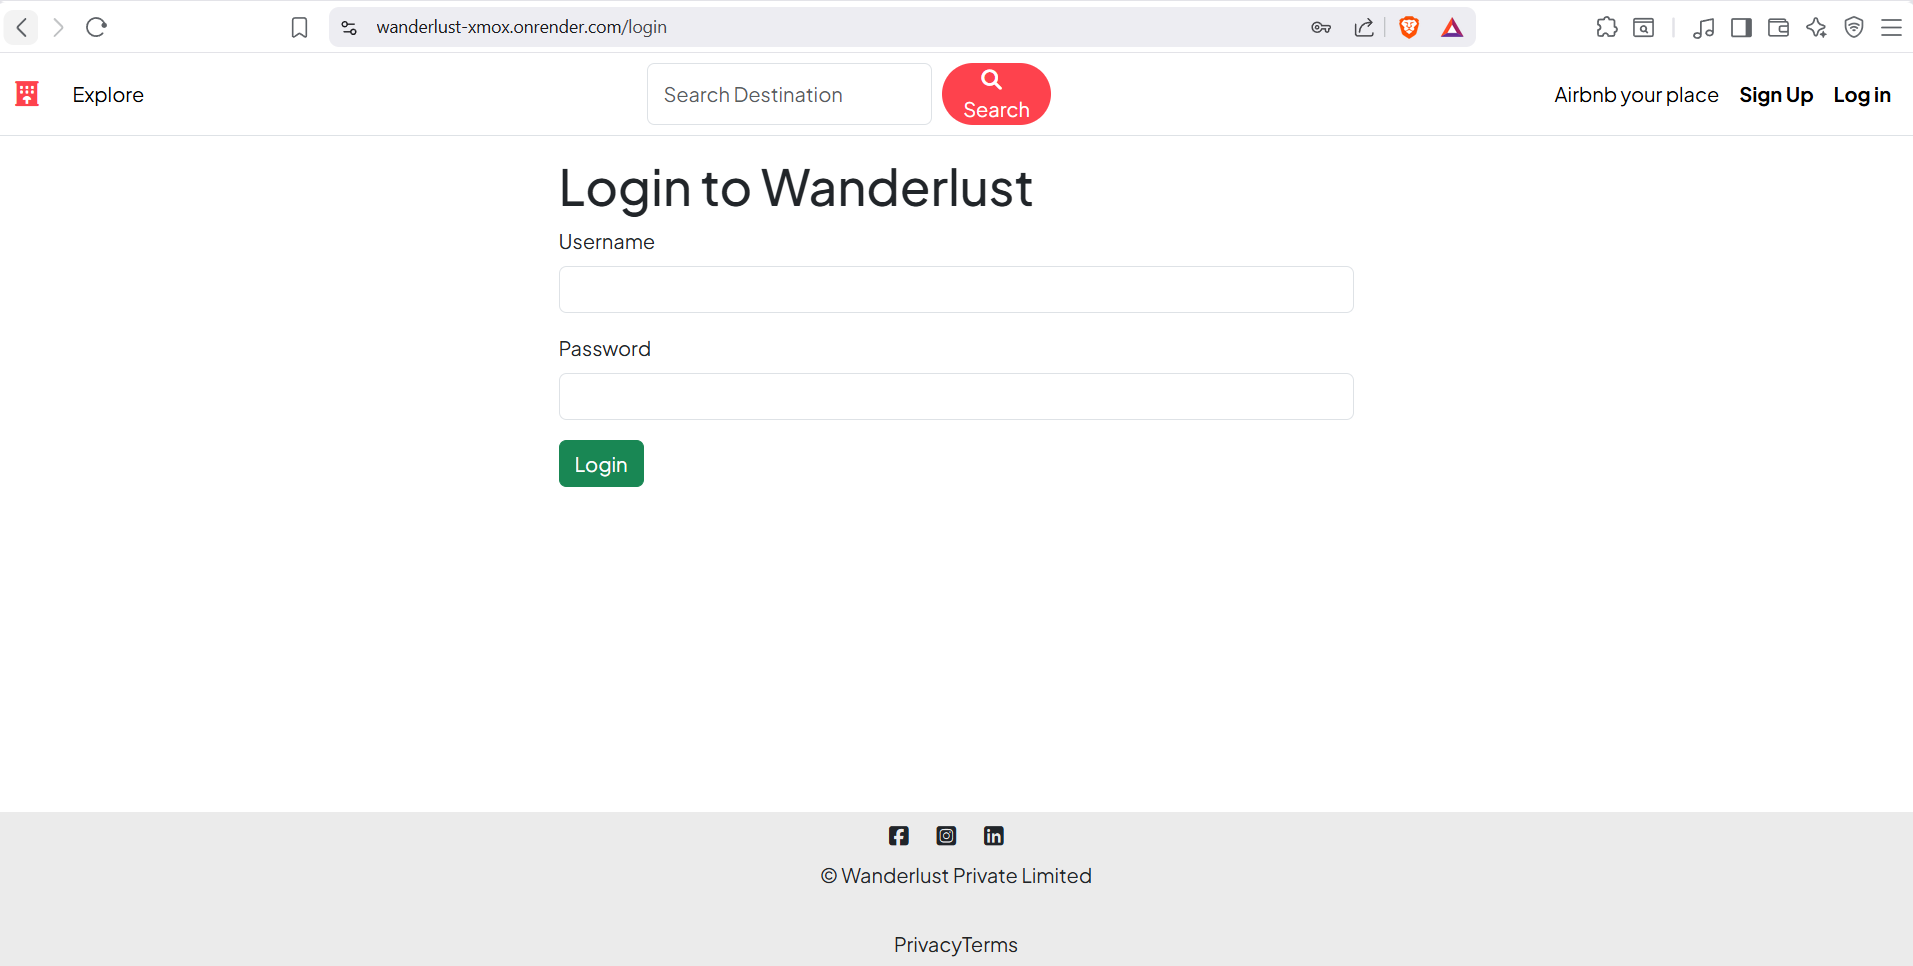
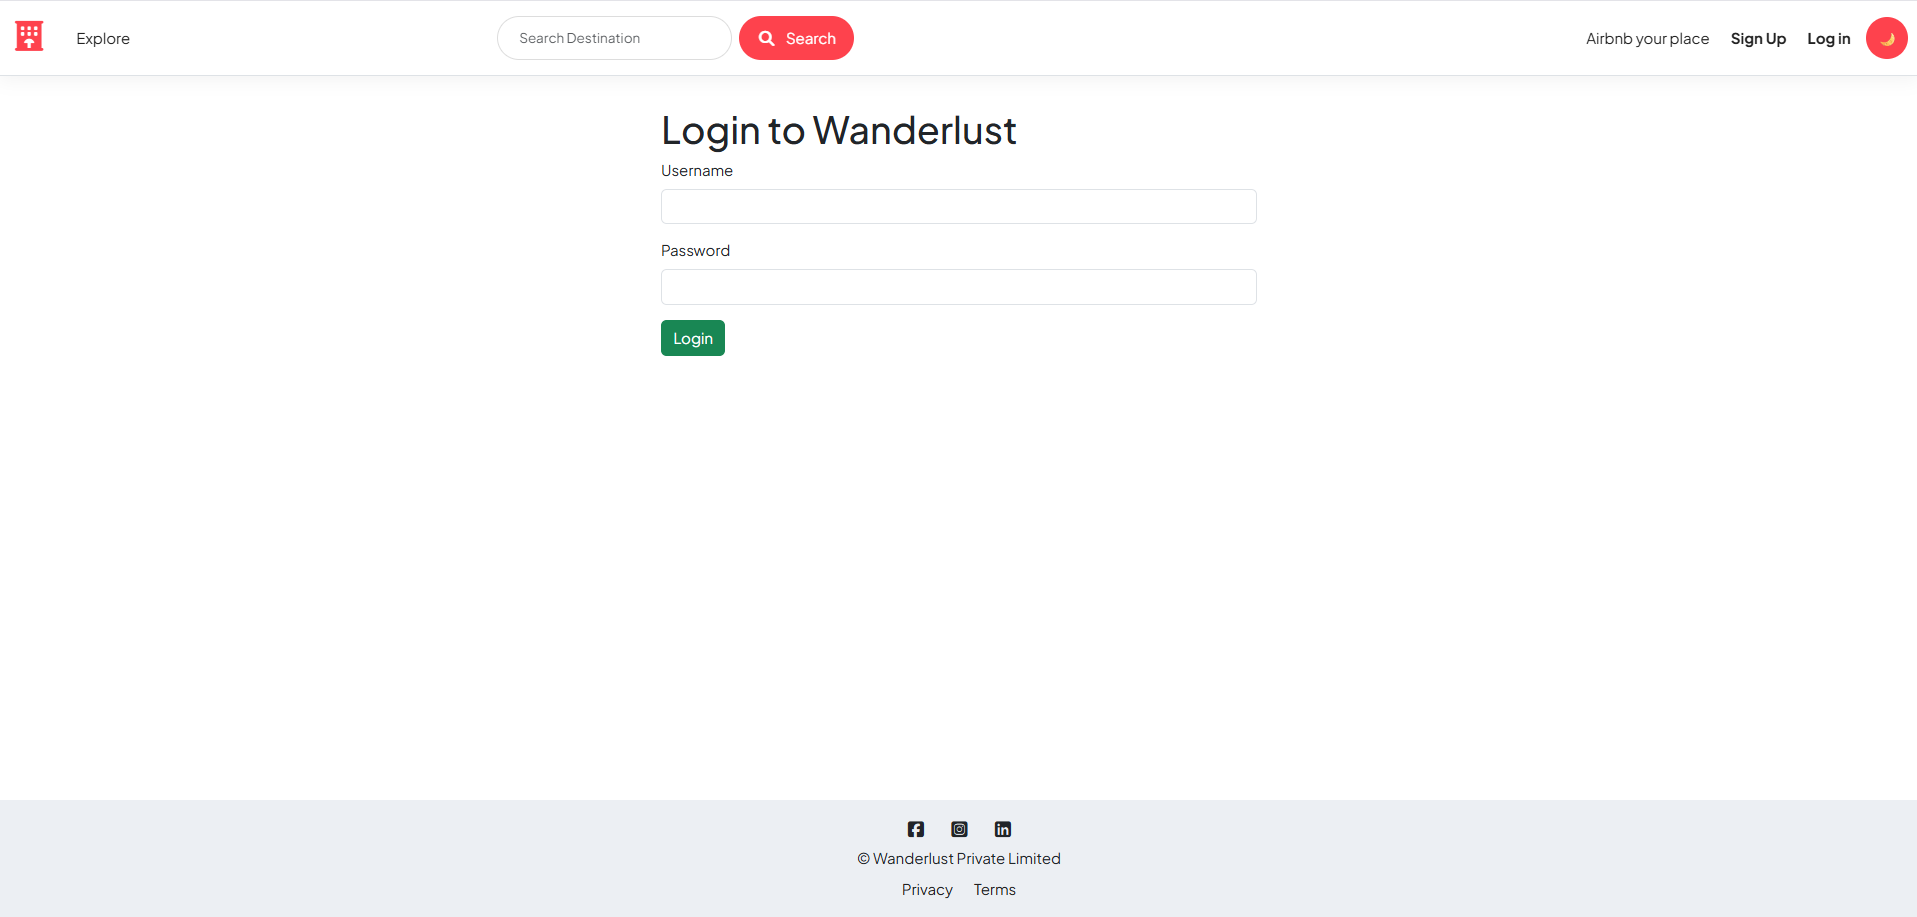
Added project screenshots

diff --git a/public/css/style.css b/public/css/style.css
@@ -1,3 +1,5 @@
+
+
 /* =========================
    GOOGLE FONT + BASE
    ========================= */
@@ -600,7 +602,7 @@ body.dark-mode{
 }
 
 .dark-mode .remove-btn{
-    background: #2b2b2b;
+    background: #ff385c;
 }
 
 /* =========================
@@ -661,19 +663,45 @@ body.dark-mode{
     font-weight: 700;
 }
 
-.remove-btn{
-    border: none;
-    background: #222;
+.remove-btn {
+    background: #ff385c;
     color: white;
-    padding: .75rem 1.2rem;
-    border-radius: 30px;
-    transition: .3s ease;
+    border: 2px solid solid;
+    padding: 0.7rem 1.2rem;
+    border-radius: 25px;
+    transition: all 0.3s ease;
+    font-weight: 500;
+    cursor: pointer;
+    box-shadow: 0 4px 12px rgba(255, 56, 92, 0.15);
 }
 
-.remove-btn:hover{
-    background: #fe424d;
+/* Hover effect */
+.remove-btn:hover {
+    background: #e63252;  /* slightly darker shade */
     transform: translateY(-2px);
-    box-shadow: 0 10px 20px rgba(254,66,77,.3);
+    box-shadow: 0 8px 20px rgba(255, 56, 92, 0.35);
+}
+
+.remove-btn.outline {
+    background: white;
+    color: #ff385c;
+    border: 2px solid #ff385c;
+}
+
+.remove-btn.outline:hover {
+    background: #ff385c;
+    color: white;
+}
+
+/* DARK MODE CLEAN VERSION */
+.dark-mode .remove-btn {
+    background: #ff385c;
+    color: white;
+}
+
+/* hover same consistent feel */
+.dark-mode .remove-btn:hover {
+    background: #e63252;
 }
 
 .dark-mode .wishlist-card{
@@ -691,9 +719,6 @@ body.dark-mode{
     background: rgba(30,30,30,.95);
 }
 
-.dark-mode .remove-btn{
-    background: #2c2c2c;
-}
 
 .owner-actions{
     display: flex;

diff --git a/app.js b/app.js
@@ -23,8 +23,8 @@ const wishlistRoutes = require("./routes/wishlist");
 const legalRoutes = require("./routes/legal");
 const bookingRoutes = require("./routes/booking");
 
-// const MONGO_URL ="mongodb://127.0.0.1:27017/wanderlust";
- const MONGO_URL = process.env.ATLASDB_URL;
+const MONGO_URL ="mongodb://127.0.0.1:27017/wanderlust";
+//  const MONGO_URL = process.env.ATLASDB_URL;
 
 
 